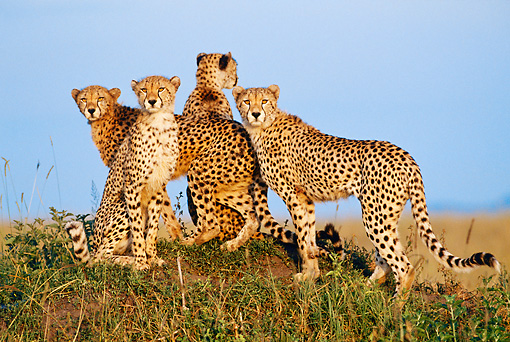
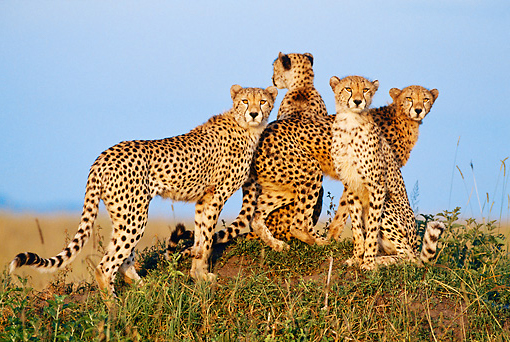
[Cleanup] Remove unused image assets - Part 2

diff --git a/src/components/biology/BiologyPage_Subsection_BodyAndBone.js b/src/components/biology/BiologyPage_Subsection_BodyAndBone.js
@@ -4,7 +4,7 @@
  *
  * Author   : Tomiko
  * Created  : Jul 16, 2020
- * Updated  : Jul 25, 2020
+ * Updated  : Jul 27, 2020
  */
 
 import React from 'react'
@@ -26,7 +26,7 @@ import ImageView from '../shared/ImageView'
 
 import './BiologyPage_Subsection_BodyAndBone.css'
 
-import image_cheetah_body_measurements from './assets/Cheetah_Body_Measurements_720x480.jpg'
+import image_cheetah_body_measurements from './assets/Cheetah_Body_Measurements.jpg'
 import image_cheetah_tail from './assets/cheetah_tail.jpg'
 import image_cheetah_running_animated from './assets/cheetah_running_animated.gif'
 
@@ -71,7 +71,11 @@ export default class BiologyPageSubsectionBodyAndBone extends React.Component {
       <ContentPageSubsectionPart>
         <div className="OverflowHidden">
           <div className="FloatRight">
-            <img src={image_cheetah_body_measurements} alt="" />
+            <img
+              style={{width: 720}}
+              src={image_cheetah_body_measurements}
+              alt="Cheetah body measurements"
+            />
           </div>
 
           <div className="LeftMargin50px">

diff --git a/src/components/biology/BiologyPageLifecycleDiagram.js b/src/components/biology/BiologyPageLifecycleDiagram.js
@@ -4,7 +4,7 @@
  *
  * Author   : Tomiko
  * Created  : Jul 16, 2020
- * Updated  : Jul 16, 2020
+ * Updated  : Jul 27, 2020
  */
 
 import React from 'react'
@@ -15,7 +15,7 @@ import './BiologyPageLifecycleDiagram.css'
 
 import { getElementStyleClassName } from '../../styling/styling'
 
-import image_lifecycle_diagram from './assets/Lifecycle_Diagram_640x675.png'
+import image_lifecycle_diagram from './assets/Lifecycle_Diagram.png'
 
 export default function BiologyPageLifecycleDiagram() {
   return (
@@ -33,7 +33,11 @@ export default function BiologyPageLifecycleDiagram() {
         <b>Stage 3</b>: 18 to 22 months; <b>Stage 4</b>: adult life.
       </p>
       <div className="Centered">
-        <img src={image_lifecycle_diagram} alt="lifecycle diagram" />
+        <img
+          style={{width: 640}}
+          src={image_lifecycle_diagram}
+          alt="lifecycle diagram"
+        />
       </div>
     </div>
   )

diff --git a/src/components/future/FuturePage_Subsection_WhatIsConservation.js b/src/components/future/FuturePage_Subsection_WhatIsConservation.js
@@ -4,7 +4,7 @@
  *
  * Author   : Tomiko
  * Created  : Jul 22, 2020
- * Updated  : Jul 26, 2020
+ * Updated  : Jul 27, 2020
  */
 
 import React from 'react'
@@ -22,7 +22,7 @@ import {
 } from '../shared/ContentPageSubsectionContentBinder'
 
 import image_earth_environment from './assets/earth_environment.png'
-import image_earth_biodiversity from './assets/earth_biodiversity_640x590.png'
+import image_earth_biodiversity from './assets/earth_biodiversity.png'
 
 export default class FuturePageSubsectionWhatIsConservation extends React.Component {
 
@@ -97,7 +97,11 @@ export default class FuturePageSubsectionWhatIsConservation extends React.Compon
 
   renderMiddleColumnContent() {
     return (
-      <img src={image_earth_biodiversity} alt="" />
+      <img
+        className="FullWidth"
+        src={image_earth_biodiversity}
+        alt=""
+      />
     );
   }
 }

diff --git a/src/components/biology/BiologyPage_Subsection_LivingFastDyingYoung.js b/src/components/biology/BiologyPage_Subsection_LivingFastDyingYoung.js
@@ -4,7 +4,7 @@
  *
  * Author   : Tomiko
  * Created  : Jul 17, 2020
- * Updated  : Jul 25, 2020
+ * Updated  : Jul 27, 2020
  */
 
 import React from 'react'
@@ -21,7 +21,7 @@ import {
 
 import ImageView from '../shared/ImageView'
 
-import image_cheetah_coalition from './assets/cheetah_coalition_02.jpg'
+import image_cheetah_coalition from './assets/cheetah_coalition.jpg'
 import image_cheetah_face_hyena from './assets/cheetah_face_hyena.jpg'
 
 export default class BiologyPageSubsectionLivingFastDyingYoung extends React.Component {

diff --git a/src/components/biology/CheetahSkeletalAnatomyDiagram.js b/src/components/biology/CheetahSkeletalAnatomyDiagram.js
@@ -11,8 +11,7 @@ import React from 'react'
 
 import PopUpLabelledDiagram from '../shared/PopUpLabelledDiagram'
 
-// import image_cheetah_skeletal_anatomy from './assets/cheetah_skeletal_anatomy.jpg'
-import image_cheetah_skeletal_anatomy from './assets/cheetah_skeletal_anatomy_02.jpg'
+import image_cheetah_skeletal_anatomy from './assets/cheetah_skeletal_anatomy.jpg'
 
 export default class CheetahSkeletalAnatomyDiagram extends React.Component {
 

diff --git a/src/components/shared/ContentPageSharedStyles.css b/src/components/shared/ContentPageSharedStyles.css
@@ -4,7 +4,7 @@
  *
  * Author   : Tomiko
  * Created  : Jul 06, 2020
- * Updated  : Jul 26, 2020
+ * Updated  : Jul 27, 2020
  */
 
 /** ----------------------------- CONTAINER -------------------------------- **/
@@ -93,7 +93,7 @@ div.BottomMargin50px {
 }
 
 .FullWidth {
-  width: 100%;
+  max-width: 100%;
 }
 
 /** ------------------------------- TEXT ----------------------------------- **/
